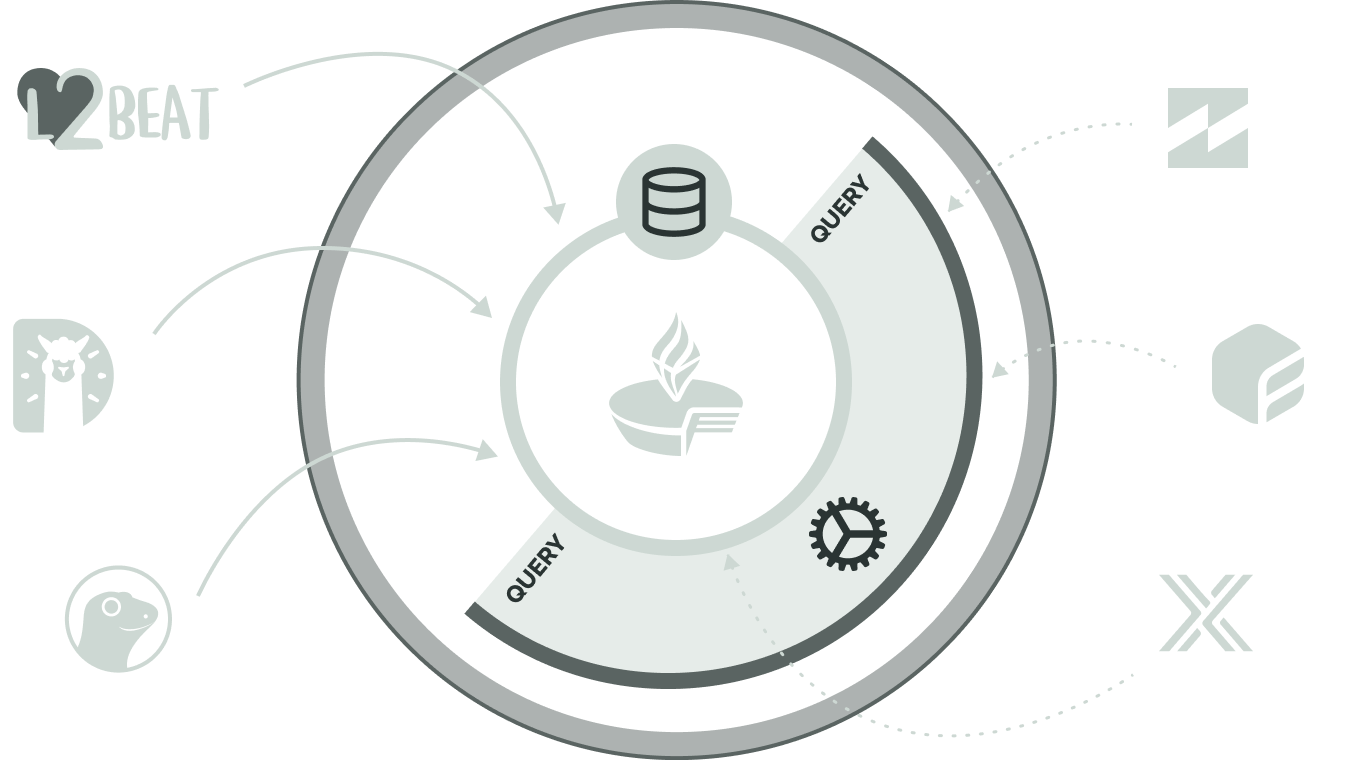
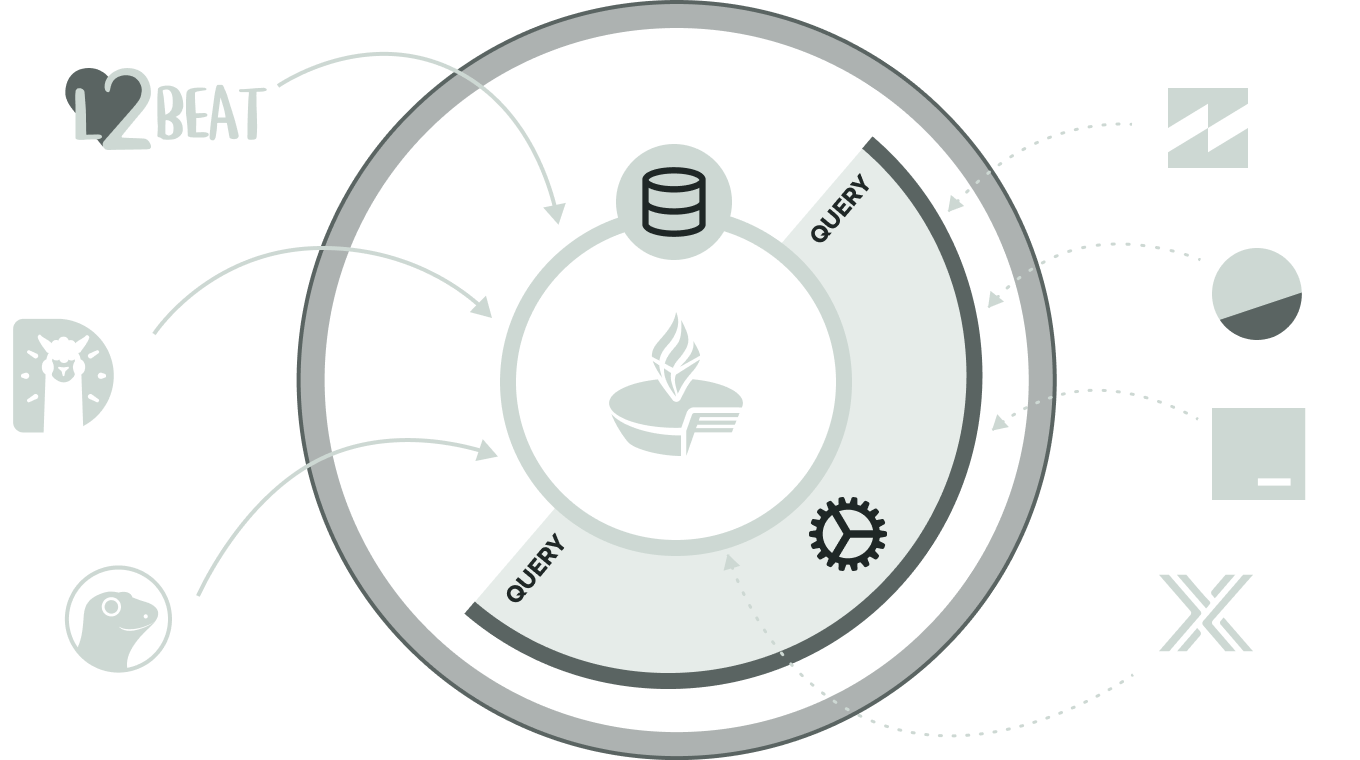
Fixed light mode contributors. Updated Data Kraken.

diff --git a/app/contributors/page.tsx b/app/contributors/page.tsx
@@ -123,7 +123,7 @@ export default function ContributorsPage() {
                 alt={s.name}
                 width={s.width}
                 height={s.height}
-                className="brightness-0 grayscale-100 dark:brightness-100 grayscale-0"
+                className="brightness-[.55] grayscale-100 dark:brightness-100 grayscale-0"
                 // fill
               />
             </Link>
@@ -157,7 +157,7 @@ export default function ContributorsPage() {
                 alt={s.name}
                 width={s.width}
                 height={s.height}
-                className="brightness-0 grayscale-100 dark:brightness-100 grayscale-0"
+                className="brightness-[.55] grayscale-100 dark:brightness-100 grayscale-0"
                 // fill
               />
             </Link>

diff --git a/app/page.tsx b/app/page.tsx
@@ -160,7 +160,7 @@ export default function Home() {
                 src="/GTP-Data-Kraken.png"
                 fill={true}
                 alt="About Grow The Pie"
-                className="object-contain"
+                className="object-contain brightness-[.55] dark:brightness-[1.0]"
               />
             </div>
             <div className="text-base md:text-sm lg:text-base">
@@ -180,7 +180,7 @@ export default function Home() {
               src="/GTP-Data-Kraken.png"
               fill={true}
               alt="About Grow The Pie"
-              className="object-contain"
+              className="object-contain  brightness-[.55] dark:brightness-[1.0]"
             />
           </div>
         </div>

diff --git a/lib/contributors.ts b/lib/contributors.ts
@@ -81,7 +81,7 @@ export const Datasources = [
     image: "/contributors/l2-beat-logo.png",
     width: 169,
     height: 51,
-    url: "https://www.immutable.com/",
+    url: "https://l2beat.com/scaling/tvl",
   },
   {
     name: "Chainbase",
